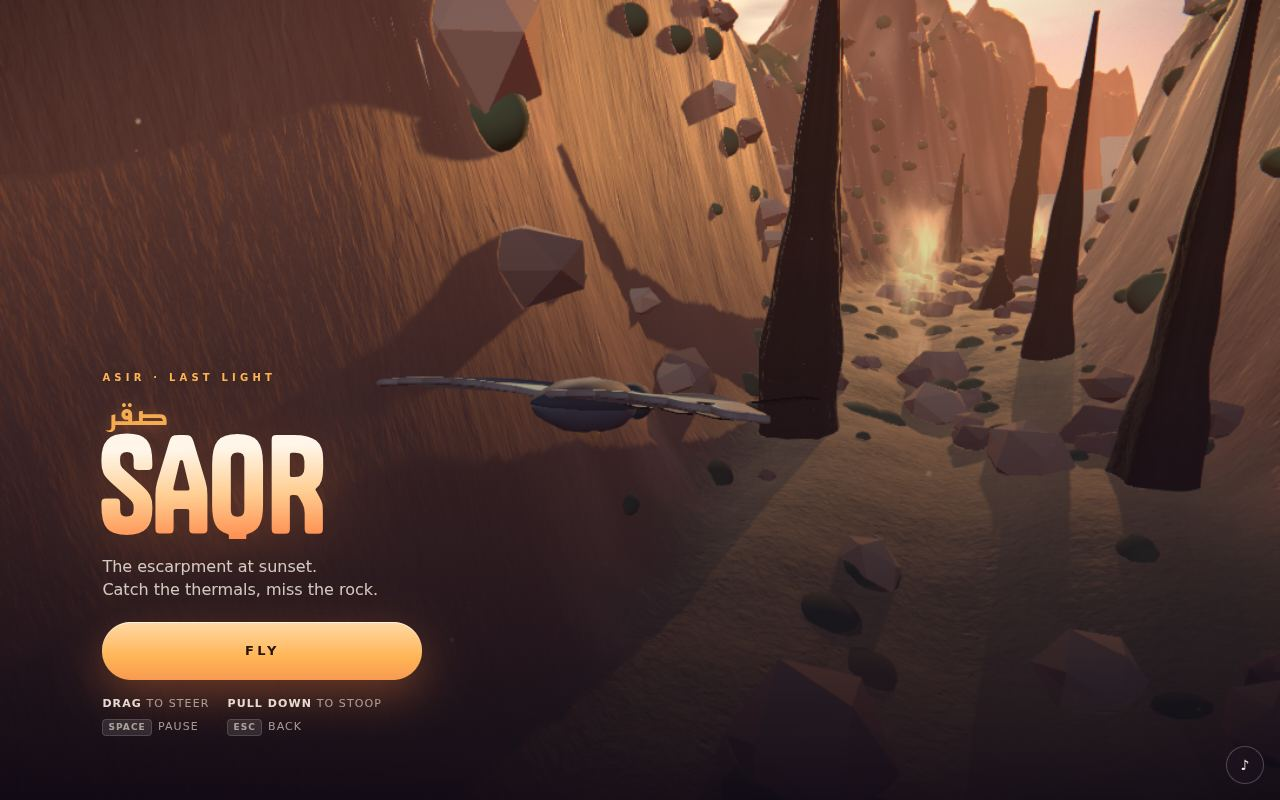
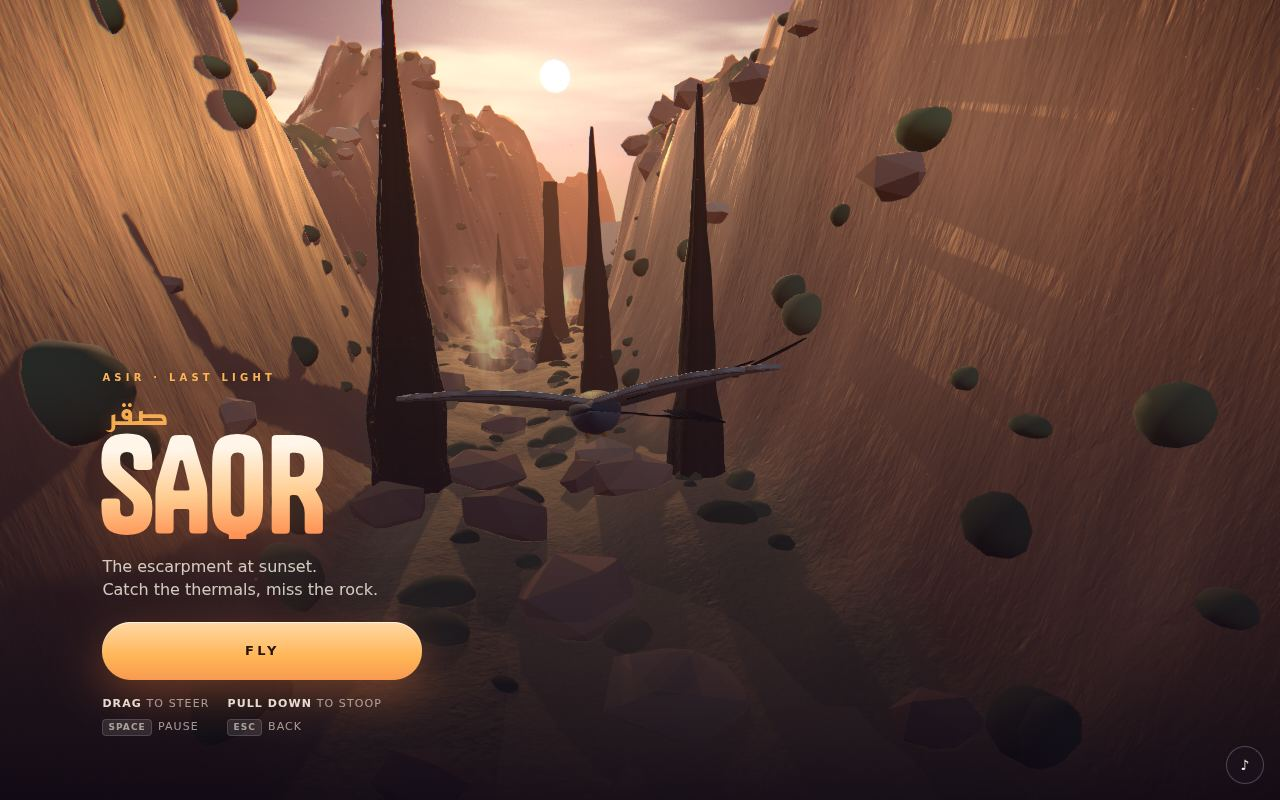
publish

diff --git a/index.html b/index.html
@@ -14,4 +14,4 @@ nav{display:flex;flex-wrap:wrap;gap:8px}nav a{color:var(--fg);text-decoration:no
 nav a:hover{border-color:var(--acc);color:var(--acc)}nav a.repo{color:var(--mute)}footer{color:var(--mute);text-align:center;padding:0 16px 40px;font-size:13px}
 </style></head><body>
 <header><h1>Hermes<br>Gallery</h1><p>Everything Hermes has shipped, with live links. Rebuilt automatically from the project registry every hour, so it's always current.</p></header>
-<main><article><a class="shot" href="https://nd96-8d938128.nip.io/host"><img loading="lazy" src="thumbs/nd96.jpg" alt="ND96 — National Day game (Asir) screenshot"></a><div class="meta"><h2>ND96 — National Day game (Asir)</h2><p>Asir driving update LIVE, deployed 985675f: 7.27 km circuit (2.33x), continuous ribbon presentation, responsive solo TAP/HOLD, angle-sensitive wall losses and stronger boost. Map art/approved car preserved; scores/history and join code 6520 retained. Three-map cold/warm starts, nine transitions and failure/timeout/retry/cancel/refresh coverage verified. Human feel and hardware rehearsal remain unverified.</p><nav><a href="https://nd96-8d938128.nip.io/host">Host ↗</a><a href="https://nd96-8d938128.nip.io/play">Play ↗</a></nav></div></article><article><a class="shot" href="https://bloomberg-dns-studied-operates.trycloudflare.com/ar"><img loading="lazy" src="thumbs/itlala.jpg" alt="إطلالة Itlala — AI personal shopper screenshot"></a><div class="meta"><h2>إطلالة Itlala — AI personal shopper</h2><p>Phone UI pass 2 LIVE (2026-10-21 PM): flat-lay is a scrollable stack (every piece visible), outfit sheet shows the whole figure, no read-more, no links in the chat, abaya can never be answered with a dress, palette measured from the garments (5 looks), redone phone composer, sheet motion.</p><nav><a href="https://bloomberg-dns-studied-operates.trycloudflare.com/ar">Demo (tunnel, follows rotation) ↗</a><a class="repo" href="https://github.com/Mkj-ai/ai-personal-shopper">repo</a></nav></div></article><article><a class="shot" href="https://hermesalfredguy.github.io/aura-motion-study/"><img loading="lazy" src="thumbs/aura-motion-study.jpg" alt="AURA — 10 s motion study testing mg-styles-15 + video-shotcraft screenshot"></a><div class="meta"><h2>AURA — 10 s motion study testing mg-styles-15 + video-shotcraft</h2><p>delivered — motion gate 3.14, contrast pass (5 -&gt; 1 warning, intended fade)</p><nav><a href="https://hermesalfredguy.github.io/aura-motion-study/">Film page ↗</a><a class="repo" href="https://github.com/HermesAlfredGuy/aura-motion-study">repo</a></nav></div></article><article><a class="shot" href="https://hermesalfredguy.github.io/afterlight-20261018/"><img loading="lazy" src="thumbs/afterlight.jpg" alt="Afterlight — DeepSeek Creative Lab screenshot"></a><div class="meta"><h2>Afterlight — DeepSeek Creative Lab</h2><p>Paused by the owner (2026-10-20). Pass-3 graphics work stopped part-way; edits left uncommitted in the workspace.</p><nav><a href="https://hermesalfredguy.github.io/afterlight-20261018/">Site ↗</a><a class="repo" href="https://github.com/HermesAlfredGuy/afterlight-20261018">repo</a></nav></div></article><article><a class="shot" href="https://hermesalfredguy.github.io/dallah/"><img loading="lazy" src="thumbs/dallah-img2threejs.jpg" alt="Brass dallah — one photograph to procedural Three.js screenshot"></a><div class="meta"><h2>Brass dallah — one photograph to procedural Three.js</h2><p>delivered — 6 correction passes, structural pass unlocked, generator bugs fixed</p><nav><a href="https://hermesalfredguy.github.io/dallah/">Live model ↗</a><a class="repo" href="https://github.com/HermesAlfredGuy/dallah">repo</a></nav></div></article><article><a class="shot" href="https://hermesalfredguy.github.io/ember-run/"><img loading="lazy" src="thumbs/ember-run.jpg" alt="Ember Run — browser game screenshot"></a><div class="meta"><h2>Ember Run — browser game</h2><p>Live demo.</p><nav><a href="https://hermesalfredguy.github.io/ember-run/">Play ↗</a><a class="repo" href="https://github.com/HermesAlfredGuy/ember-run">repo</a></nav></div></article><article><a class="shot" href="https://hermesalfredguy.github.io/hermes-studio/"><img loading="lazy" src="thumbs/studio.jpg" alt="Hermes Studio — tooling &amp; kits screenshot"></a><div class="meta"><h2>Hermes Studio — tooling &amp; kits</h2><p>Kits: web-editorial, game-three, motion (brand-opener, anthem). New: one-take voiceover + beat warp (anthem motion 5.95 vs Oddfellows 6.1), motion gate, a11y/contrast gate in web QA. Hermes film tests: 6/10 → 6.5/10. Motion retrofit 20 Oct: full motion forced always (no OS reduced-motion checks, no toggle), live + QA ok.</p><nav><a href="https://hermesalfredguy.github.io/hermes-studio/">Studio site ↗</a><a href="https://hermesalfredguy.github.io/tidework-studio/">TIDEWORK site ↗</a><a href="https://hermesalfredguy.github.io/ember-run/">Ember Run game ↗</a><a class="repo" href="https://github.com/HermesAlfredGuy/hermes-studio">repo</a></nav></div></article><article><a class="shot" href="https://hermesalfredguy.github.io/ledgerline-launch-clip/"><img loading="lazy" src="thumbs/ledgerline-launch-clip.jpg" alt="Ledgerline — 20 s square launch clip, drawn in code screenshot"></a><div class="meta"><h2>Ledgerline — 20 s square launch clip, drawn in code</h2><p>2026-10-22: remade from the motion-dead original. Motion 0.61 -&gt; 5.00 median (gate 2.5), 19 dead seconds -&gt; 0, -14.1 LUFS, 54 named techniques in TIMELINE.md, page with a 37-beat transcript. REVIEW GATE FAILED: four independent rounds scored 8.0 / 7.7 / 8.1 / 7.6 (gate 8.5), zero blockers; round budget exhausted. Open: the sheet-to-cards change is a cut not a fold, and the 8.1 s swap is off the beat.</p><nav><a href="https://hermesalfredguy.github.io/ledgerline-launch-clip/">Proof page ↗</a><a class="repo" href="https://github.com/HermesAlfredGuy/ledgerline-launch-clip">repo</a></nav></div></article><article><a class="shot" href="https://hermesalfredguy.github.io/qahwa-lab/"><img loading="lazy" src="thumbs/qahwa-lab.jpg" alt="Qahwa Lab — Khawlani coffee, roasted in Al Khobar screenshot"></a><div class="meta"><h2>Qahwa Lab — Khawlani coffee, roasted in Al Khobar</h2><p>Live (2026-10-22): scroll-roasts a procedural 3D Khawlani bean through a real roast log (200 °C charge → 212 °C drop), contour-map provenance section, hand-drawn roast profile, swipeable lot rail. Mobile-first.</p><nav><a href="https://hermesalfredguy.github.io/qahwa-lab/">GitHub Pages ↗</a><a class="repo" href="https://github.com/HermesAlfredGuy/qahwa-lab">repo</a></nav></div></article><article><a class="shot" href="https://hermesalfredguy.github.io/saqr/"><img loading="lazy" src="thumbs/saqr.jpg" alt="SAQR — falcon over Asir screenshot"></a><div class="meta"><h2>SAQR — falcon over Asir</h2><p>Shipped 2026-10-22: one-thumb 3D flight game over the Asir escarpment at last light — thermal riding, near-miss bonuses, real rock collisions. Verified on a 390×844 phone viewport, 27.8 s gameplay capture with the game&#x27;s own audio.</p><nav><a href="https://hermesalfredguy.github.io/saqr/">Live ↗</a><a class="repo" href="https://github.com/HermesAlfredGuy/saqr">repo</a></nav></div></article><article><a class="shot" href="https://hermesalfredguy.github.io/softmax-reward-model-music-video/?video=1"><img loading="lazy" src="thumbs/softmax-music-video.jpg" alt="SOFTMAX — Reward Model, kinetic lyric music video screenshot"></a><div class="meta"><h2>SOFTMAX — Reward Model, kinetic lyric music video</h2><p>Delivered: complete 3:12 film, native 1920x1080 at 60 fps (11520 frames), 71 typographic cues. Preferred original recording preserved. Final export and public MP4 ranges verified; Telegram delivery 17453.</p><nav><a href="https://hermesalfredguy.github.io/softmax-reward-model-music-video/?video=1">Watch / download ↗</a><a class="repo" href="https://github.com/HermesAlfredGuy/softmax-reward-model-music-video">repo</a></nav></div></article><article><a class="shot" href="https://hermesalfredguy.github.io/sonde/"><img loading="lazy" src="thumbs/sonde.jpg" alt="Sonde — database agent for oil and gas screenshot"></a><div class="meta"><h2>Sonde — database agent for oil and gas</h2><p>live — disclosure section now carries a live procedural 3D core sample</p><nav><a href="https://hermesalfredguy.github.io/sonde/">Live ↗</a><a class="repo" href="https://github.com/HermesAlfredGuy/sonde">repo</a></nav></div></article><article><a class="shot" href="https://hermesalfredguy.github.io/handheld-oneshot-test/"><img loading="lazy" src="thumbs/handheld-oneshot-test.jpg" alt="TOCK &amp; friends — handheld launch-site test screenshot"></a><div class="meta"><h2>TOCK &amp; friends — handheld launch-site test</h2><p>4 one-shot pages (DeepSeek/MiniMax, raw/brief/auto-brief).</p><nav><a href="https://hermesalfredguy.github.io/handheld-oneshot-test/">Gallery ↗</a><a href="https://hermesalfredguy.github.io/handheld-oneshot-test/deepseek-auto/">TOCK ↗</a><a class="repo" href="https://github.com/HermesAlfredGuy/handheld-oneshot-test">repo</a></nav></div></article><article><a class="shot" href="https://hermesalfredguy.github.io/really-high-quality-animated/"><img loading="lazy" src="thumbs/little-lighthouse.jpg" alt="The Little Lighthouse — 50 s hand-inked cel film, drawn in code screenshot"></a><div class="meta"><h2>The Little Lighthouse — 50 s hand-inked cel film, drawn in code</h2><p>delivered — 4 independent review rounds, gate not passed (film 7/10 r4, page 8.0 r3)</p><nav><a href="https://hermesalfredguy.github.io/really-high-quality-animated/">Film page ↗</a><a class="repo" href="https://github.com/HermesAlfredGuy/really-high-quality-animated">repo</a></nav></div></article><article><a class="shot" href="https://hermesalfredguy.github.io/tidework-studio/"><img loading="lazy" src="thumbs/tidework-studio.jpg" alt="Tidework — brand studio site screenshot"></a><div class="meta"><h2>Tidework — brand studio site</h2><p>Live.</p><nav><a href="https://hermesalfredguy.github.io/tidework-studio/">Site ↗</a><a class="repo" href="https://github.com/HermesAlfredGuy/tidework-studio">repo</a></nav></div></article><article><a class="shot" href="https://hermesalfredguy.github.io/tomo-01/"><img loading="lazy" src="thumbs/tomo-01.jpg" alt="Tomo-01 — handheld launch site screenshot"></a><div class="meta"><h2>Tomo-01 — handheld launch site</h2><p>Live. Paper-catalogue launch page for a fictional two-screen handheld: bespoke Three.js device (hinge opens on scroll 0-113 deg, two live canvas LCDs), Pebble Garden playable in the page, opt-in synthesised sound, colour studio. Press loop 20s 16:9 + social cut 15s 9:16, both passing the film motion gate. studio-qa green (0 axe, 0 errors, 0 overflow, 0 small tap targets); mobile nav-clearance and anchor scroll-padding fixed after a rubric critique pass (7.1 -&gt; 7.7). Phone pass 2026-10-21: the fixed WebGL canvas now places the device in reserved document-flow bands solved from the measured rect, so nothing can sit under it; 0 text/device overlaps at 390x844 and 360x780, 0 tap targets under 44px, 0 body copy under 15px, playable console in one viewport, desktop layout unchanged (28/29 measured fields identical to the pre-change build).</p><nav><a href="https://hermesalfredguy.github.io/tomo-01/">Live site ↗</a><a class="repo" href="https://github.com/HermesAlfredGuy/tomo-01">repo</a></nav></div></article><article><a class="shot" href="https://hermesalfredguy.github.io/vesper-website-20261018/"><img loading="lazy" src="thumbs/vesper.jpg" alt="Vesper — DeepSeek Web Lab screenshot"></a><div class="meta"><h2>Vesper — DeepSeek Web Lab</h2><p>Site published; lamp object + film (pass 3).</p><nav><a href="https://hermesalfredguy.github.io/vesper-website-20261018/">Site ↗</a><a class="repo" href="https://github.com/HermesAlfredGuy/vesper-website-20261018">repo</a></nav></div></article><article><a class="shot" href="https://kayak-8d938128.nip.io/host"><img loading="lazy" src="thumbs/kayak-game.jpg" alt="Wadi Paddle — ND96 kayak race screenshot"></a><div class="meta"><h2>Wadi Paddle — ND96 kayak race</h2><p>Pass II «تجديف الوادي» live on the Oracle VM: verify event 55 OK, npm test 95/0, live round completed 15 Oct. Motion retrofit 20 Oct live: full motion forced always, no toggle, QA ok.</p><nav><a href="https://kayak-8d938128.nip.io/host">Host screen ↗</a><a href="https://kayak-8d938128.nip.io/play">Play (phone) ↗</a></nav></div></article></main><footer>Updated 2026-10-28 05:11 UTC</footer></body></html>
+<main><article><a class="shot" href="https://nd96-8d938128.nip.io/host"><img loading="lazy" src="thumbs/nd96.jpg" alt="ND96 — National Day game (Asir) screenshot"></a><div class="meta"><h2>ND96 — National Day game (Asir)</h2><p>Asir driving update LIVE, deployed 985675f: 7.27 km circuit (2.33x), continuous ribbon presentation, responsive solo TAP/HOLD, angle-sensitive wall losses and stronger boost. Map art/approved car preserved; scores/history and join code 6520 retained. Three-map cold/warm starts, nine transitions and failure/timeout/retry/cancel/refresh coverage verified. Human feel and hardware rehearsal remain unverified.</p><nav><a href="https://nd96-8d938128.nip.io/host">Host ↗</a><a href="https://nd96-8d938128.nip.io/play">Play ↗</a></nav></div></article><article><a class="shot" href="https://bloomberg-dns-studied-operates.trycloudflare.com/ar"><img loading="lazy" src="thumbs/itlala.jpg" alt="إطلالة Itlala — AI personal shopper screenshot"></a><div class="meta"><h2>إطلالة Itlala — AI personal shopper</h2><p>Phone UI pass 2 LIVE (2026-10-21 PM): flat-lay is a scrollable stack (every piece visible), outfit sheet shows the whole figure, no read-more, no links in the chat, abaya can never be answered with a dress, palette measured from the garments (5 looks), redone phone composer, sheet motion.</p><nav><a href="https://bloomberg-dns-studied-operates.trycloudflare.com/ar">Demo (tunnel, follows rotation) ↗</a><a class="repo" href="https://github.com/Mkj-ai/ai-personal-shopper">repo</a></nav></div></article><article><a class="shot" href="https://hermesalfredguy.github.io/aura-motion-study/"><img loading="lazy" src="thumbs/aura-motion-study.jpg" alt="AURA — 10 s motion study testing mg-styles-15 + video-shotcraft screenshot"></a><div class="meta"><h2>AURA — 10 s motion study testing mg-styles-15 + video-shotcraft</h2><p>delivered — motion gate 3.14, contrast pass (5 -&gt; 1 warning, intended fade)</p><nav><a href="https://hermesalfredguy.github.io/aura-motion-study/">Film page ↗</a><a class="repo" href="https://github.com/HermesAlfredGuy/aura-motion-study">repo</a></nav></div></article><article><a class="shot" href="https://hermesalfredguy.github.io/afterlight-20261018/"><img loading="lazy" src="thumbs/afterlight.jpg" alt="Afterlight — DeepSeek Creative Lab screenshot"></a><div class="meta"><h2>Afterlight — DeepSeek Creative Lab</h2><p>Paused by the owner (2026-10-20). Pass-3 graphics work stopped part-way; edits left uncommitted in the workspace.</p><nav><a href="https://hermesalfredguy.github.io/afterlight-20261018/">Site ↗</a><a class="repo" href="https://github.com/HermesAlfredGuy/afterlight-20261018">repo</a></nav></div></article><article><a class="shot" href="https://hermesalfredguy.github.io/dallah/"><img loading="lazy" src="thumbs/dallah-img2threejs.jpg" alt="Brass dallah — one photograph to procedural Three.js screenshot"></a><div class="meta"><h2>Brass dallah — one photograph to procedural Three.js</h2><p>delivered — 6 correction passes, structural pass unlocked, generator bugs fixed</p><nav><a href="https://hermesalfredguy.github.io/dallah/">Live model ↗</a><a class="repo" href="https://github.com/HermesAlfredGuy/dallah">repo</a></nav></div></article><article><a class="shot" href="https://hermesalfredguy.github.io/ember-run/"><img loading="lazy" src="thumbs/ember-run.jpg" alt="Ember Run — browser game screenshot"></a><div class="meta"><h2>Ember Run — browser game</h2><p>Live demo.</p><nav><a href="https://hermesalfredguy.github.io/ember-run/">Play ↗</a><a class="repo" href="https://github.com/HermesAlfredGuy/ember-run">repo</a></nav></div></article><article><a class="shot" href="https://hermesalfredguy.github.io/hermes-studio/"><img loading="lazy" src="thumbs/studio.jpg" alt="Hermes Studio — tooling &amp; kits screenshot"></a><div class="meta"><h2>Hermes Studio — tooling &amp; kits</h2><p>Kits: web-editorial, game-three, motion (brand-opener, anthem). New: one-take voiceover + beat warp (anthem motion 5.95 vs Oddfellows 6.1), motion gate, a11y/contrast gate in web QA. Hermes film tests: 6/10 → 6.5/10. Motion retrofit 20 Oct: full motion forced always (no OS reduced-motion checks, no toggle), live + QA ok.</p><nav><a href="https://hermesalfredguy.github.io/hermes-studio/">Studio site ↗</a><a href="https://hermesalfredguy.github.io/tidework-studio/">TIDEWORK site ↗</a><a href="https://hermesalfredguy.github.io/ember-run/">Ember Run game ↗</a><a class="repo" href="https://github.com/HermesAlfredGuy/hermes-studio">repo</a></nav></div></article><article><a class="shot" href="https://hermesalfredguy.github.io/ledgerline-launch-clip/"><img loading="lazy" src="thumbs/ledgerline-launch-clip.jpg" alt="Ledgerline — 20 s square launch clip, drawn in code screenshot"></a><div class="meta"><h2>Ledgerline — 20 s square launch clip, drawn in code</h2><p>2026-10-22: remade from the motion-dead original. Motion 0.61 -&gt; 5.00 median (gate 2.5), 19 dead seconds -&gt; 0, -14.1 LUFS, 54 named techniques in TIMELINE.md, page with a 37-beat transcript. REVIEW GATE FAILED: four independent rounds scored 8.0 / 7.7 / 8.1 / 7.6 (gate 8.5), zero blockers; round budget exhausted. Open: the sheet-to-cards change is a cut not a fold, and the 8.1 s swap is off the beat.</p><nav><a href="https://hermesalfredguy.github.io/ledgerline-launch-clip/">Proof page ↗</a><a class="repo" href="https://github.com/HermesAlfredGuy/ledgerline-launch-clip">repo</a></nav></div></article><article><a class="shot" href="https://hermesalfredguy.github.io/qahwa-lab/"><img loading="lazy" src="thumbs/qahwa-lab.jpg" alt="Qahwa Lab — Khawlani coffee, roasted in Al Khobar screenshot"></a><div class="meta"><h2>Qahwa Lab — Khawlani coffee, roasted in Al Khobar</h2><p>Live (2026-10-22): scroll-roasts a procedural 3D Khawlani bean through a real roast log (200 °C charge → 212 °C drop), contour-map provenance section, hand-drawn roast profile, swipeable lot rail. Mobile-first.</p><nav><a href="https://hermesalfredguy.github.io/qahwa-lab/">GitHub Pages ↗</a><a class="repo" href="https://github.com/HermesAlfredGuy/qahwa-lab">repo</a></nav></div></article><article><a class="shot" href="https://hermesalfredguy.github.io/saqr/"><img loading="lazy" src="thumbs/saqr.jpg" alt="SAQR — falcon over Asir screenshot"></a><div class="meta"><h2>SAQR — falcon over Asir</h2><p>Shipped 2026-10-22: one-thumb 3D flight game over the Asir escarpment at last light — thermal riding, near-miss bonuses, real rock collisions. Verified on a 390×844 phone viewport, 27.8 s gameplay capture with the game&#x27;s own audio.</p><nav><a href="https://hermesalfredguy.github.io/saqr/">Live ↗</a><a class="repo" href="https://github.com/HermesAlfredGuy/saqr">repo</a></nav></div></article><article><a class="shot" href="https://hermesalfredguy.github.io/softmax-reward-model-music-video/?video=1"><img loading="lazy" src="thumbs/softmax-music-video.jpg" alt="SOFTMAX — Reward Model, kinetic lyric music video screenshot"></a><div class="meta"><h2>SOFTMAX — Reward Model, kinetic lyric music video</h2><p>Delivered: complete 3:12 film, native 1920x1080 at 60 fps (11520 frames), 71 typographic cues. Preferred original recording preserved. Final export and public MP4 ranges verified; Telegram delivery 17453.</p><nav><a href="https://hermesalfredguy.github.io/softmax-reward-model-music-video/?video=1">Watch / download ↗</a><a class="repo" href="https://github.com/HermesAlfredGuy/softmax-reward-model-music-video">repo</a></nav></div></article><article><a class="shot" href="https://hermesalfredguy.github.io/sonde/"><img loading="lazy" src="thumbs/sonde.jpg" alt="Sonde — database agent for oil and gas screenshot"></a><div class="meta"><h2>Sonde — database agent for oil and gas</h2><p>live — disclosure section now carries a live procedural 3D core sample</p><nav><a href="https://hermesalfredguy.github.io/sonde/">Live ↗</a><a class="repo" href="https://github.com/HermesAlfredGuy/sonde">repo</a></nav></div></article><article><a class="shot" href="https://hermesalfredguy.github.io/handheld-oneshot-test/"><img loading="lazy" src="thumbs/handheld-oneshot-test.jpg" alt="TOCK &amp; friends — handheld launch-site test screenshot"></a><div class="meta"><h2>TOCK &amp; friends — handheld launch-site test</h2><p>4 one-shot pages (DeepSeek/MiniMax, raw/brief/auto-brief).</p><nav><a href="https://hermesalfredguy.github.io/handheld-oneshot-test/">Gallery ↗</a><a href="https://hermesalfredguy.github.io/handheld-oneshot-test/deepseek-auto/">TOCK ↗</a><a class="repo" href="https://github.com/HermesAlfredGuy/handheld-oneshot-test">repo</a></nav></div></article><article><a class="shot" href="https://hermesalfredguy.github.io/really-high-quality-animated/"><img loading="lazy" src="thumbs/little-lighthouse.jpg" alt="The Little Lighthouse — 50 s hand-inked cel film, drawn in code screenshot"></a><div class="meta"><h2>The Little Lighthouse — 50 s hand-inked cel film, drawn in code</h2><p>delivered — 4 independent review rounds, gate not passed (film 7/10 r4, page 8.0 r3)</p><nav><a href="https://hermesalfredguy.github.io/really-high-quality-animated/">Film page ↗</a><a class="repo" href="https://github.com/HermesAlfredGuy/really-high-quality-animated">repo</a></nav></div></article><article><a class="shot" href="https://hermesalfredguy.github.io/tidework-studio/"><img loading="lazy" src="thumbs/tidework-studio.jpg" alt="Tidework — brand studio site screenshot"></a><div class="meta"><h2>Tidework — brand studio site</h2><p>Live.</p><nav><a href="https://hermesalfredguy.github.io/tidework-studio/">Site ↗</a><a class="repo" href="https://github.com/HermesAlfredGuy/tidework-studio">repo</a></nav></div></article><article><a class="shot" href="https://hermesalfredguy.github.io/tomo-01/"><img loading="lazy" src="thumbs/tomo-01.jpg" alt="Tomo-01 — handheld launch site screenshot"></a><div class="meta"><h2>Tomo-01 — handheld launch site</h2><p>Live. Paper-catalogue launch page for a fictional two-screen handheld: bespoke Three.js device (hinge opens on scroll 0-113 deg, two live canvas LCDs), Pebble Garden playable in the page, opt-in synthesised sound, colour studio. Press loop 20s 16:9 + social cut 15s 9:16, both passing the film motion gate. studio-qa green (0 axe, 0 errors, 0 overflow, 0 small tap targets); mobile nav-clearance and anchor scroll-padding fixed after a rubric critique pass (7.1 -&gt; 7.7). Phone pass 2026-10-21: the fixed WebGL canvas now places the device in reserved document-flow bands solved from the measured rect, so nothing can sit under it; 0 text/device overlaps at 390x844 and 360x780, 0 tap targets under 44px, 0 body copy under 15px, playable console in one viewport, desktop layout unchanged (28/29 measured fields identical to the pre-change build).</p><nav><a href="https://hermesalfredguy.github.io/tomo-01/">Live site ↗</a><a class="repo" href="https://github.com/HermesAlfredGuy/tomo-01">repo</a></nav></div></article><article><a class="shot" href="https://hermesalfredguy.github.io/vesper-website-20261018/"><img loading="lazy" src="thumbs/vesper.jpg" alt="Vesper — DeepSeek Web Lab screenshot"></a><div class="meta"><h2>Vesper — DeepSeek Web Lab</h2><p>Site published; lamp object + film (pass 3).</p><nav><a href="https://hermesalfredguy.github.io/vesper-website-20261018/">Site ↗</a><a class="repo" href="https://github.com/HermesAlfredGuy/vesper-website-20261018">repo</a></nav></div></article><article><a class="shot" href="https://kayak-8d938128.nip.io/host"><img loading="lazy" src="thumbs/kayak-game.jpg" alt="Wadi Paddle — ND96 kayak race screenshot"></a><div class="meta"><h2>Wadi Paddle — ND96 kayak race</h2><p>Pass II «تجديف الوادي» live on the Oracle VM: verify event 55 OK, npm test 95/0, live round completed 15 Oct. Motion retrofit 20 Oct live: full motion forced always, no toggle, QA ok.</p><nav><a href="https://kayak-8d938128.nip.io/host">Host screen ↗</a><a href="https://kayak-8d938128.nip.io/play">Play (phone) ↗</a></nav></div></article></main><footer>Updated 2026-10-28 10:16 UTC</footer></body></html>
